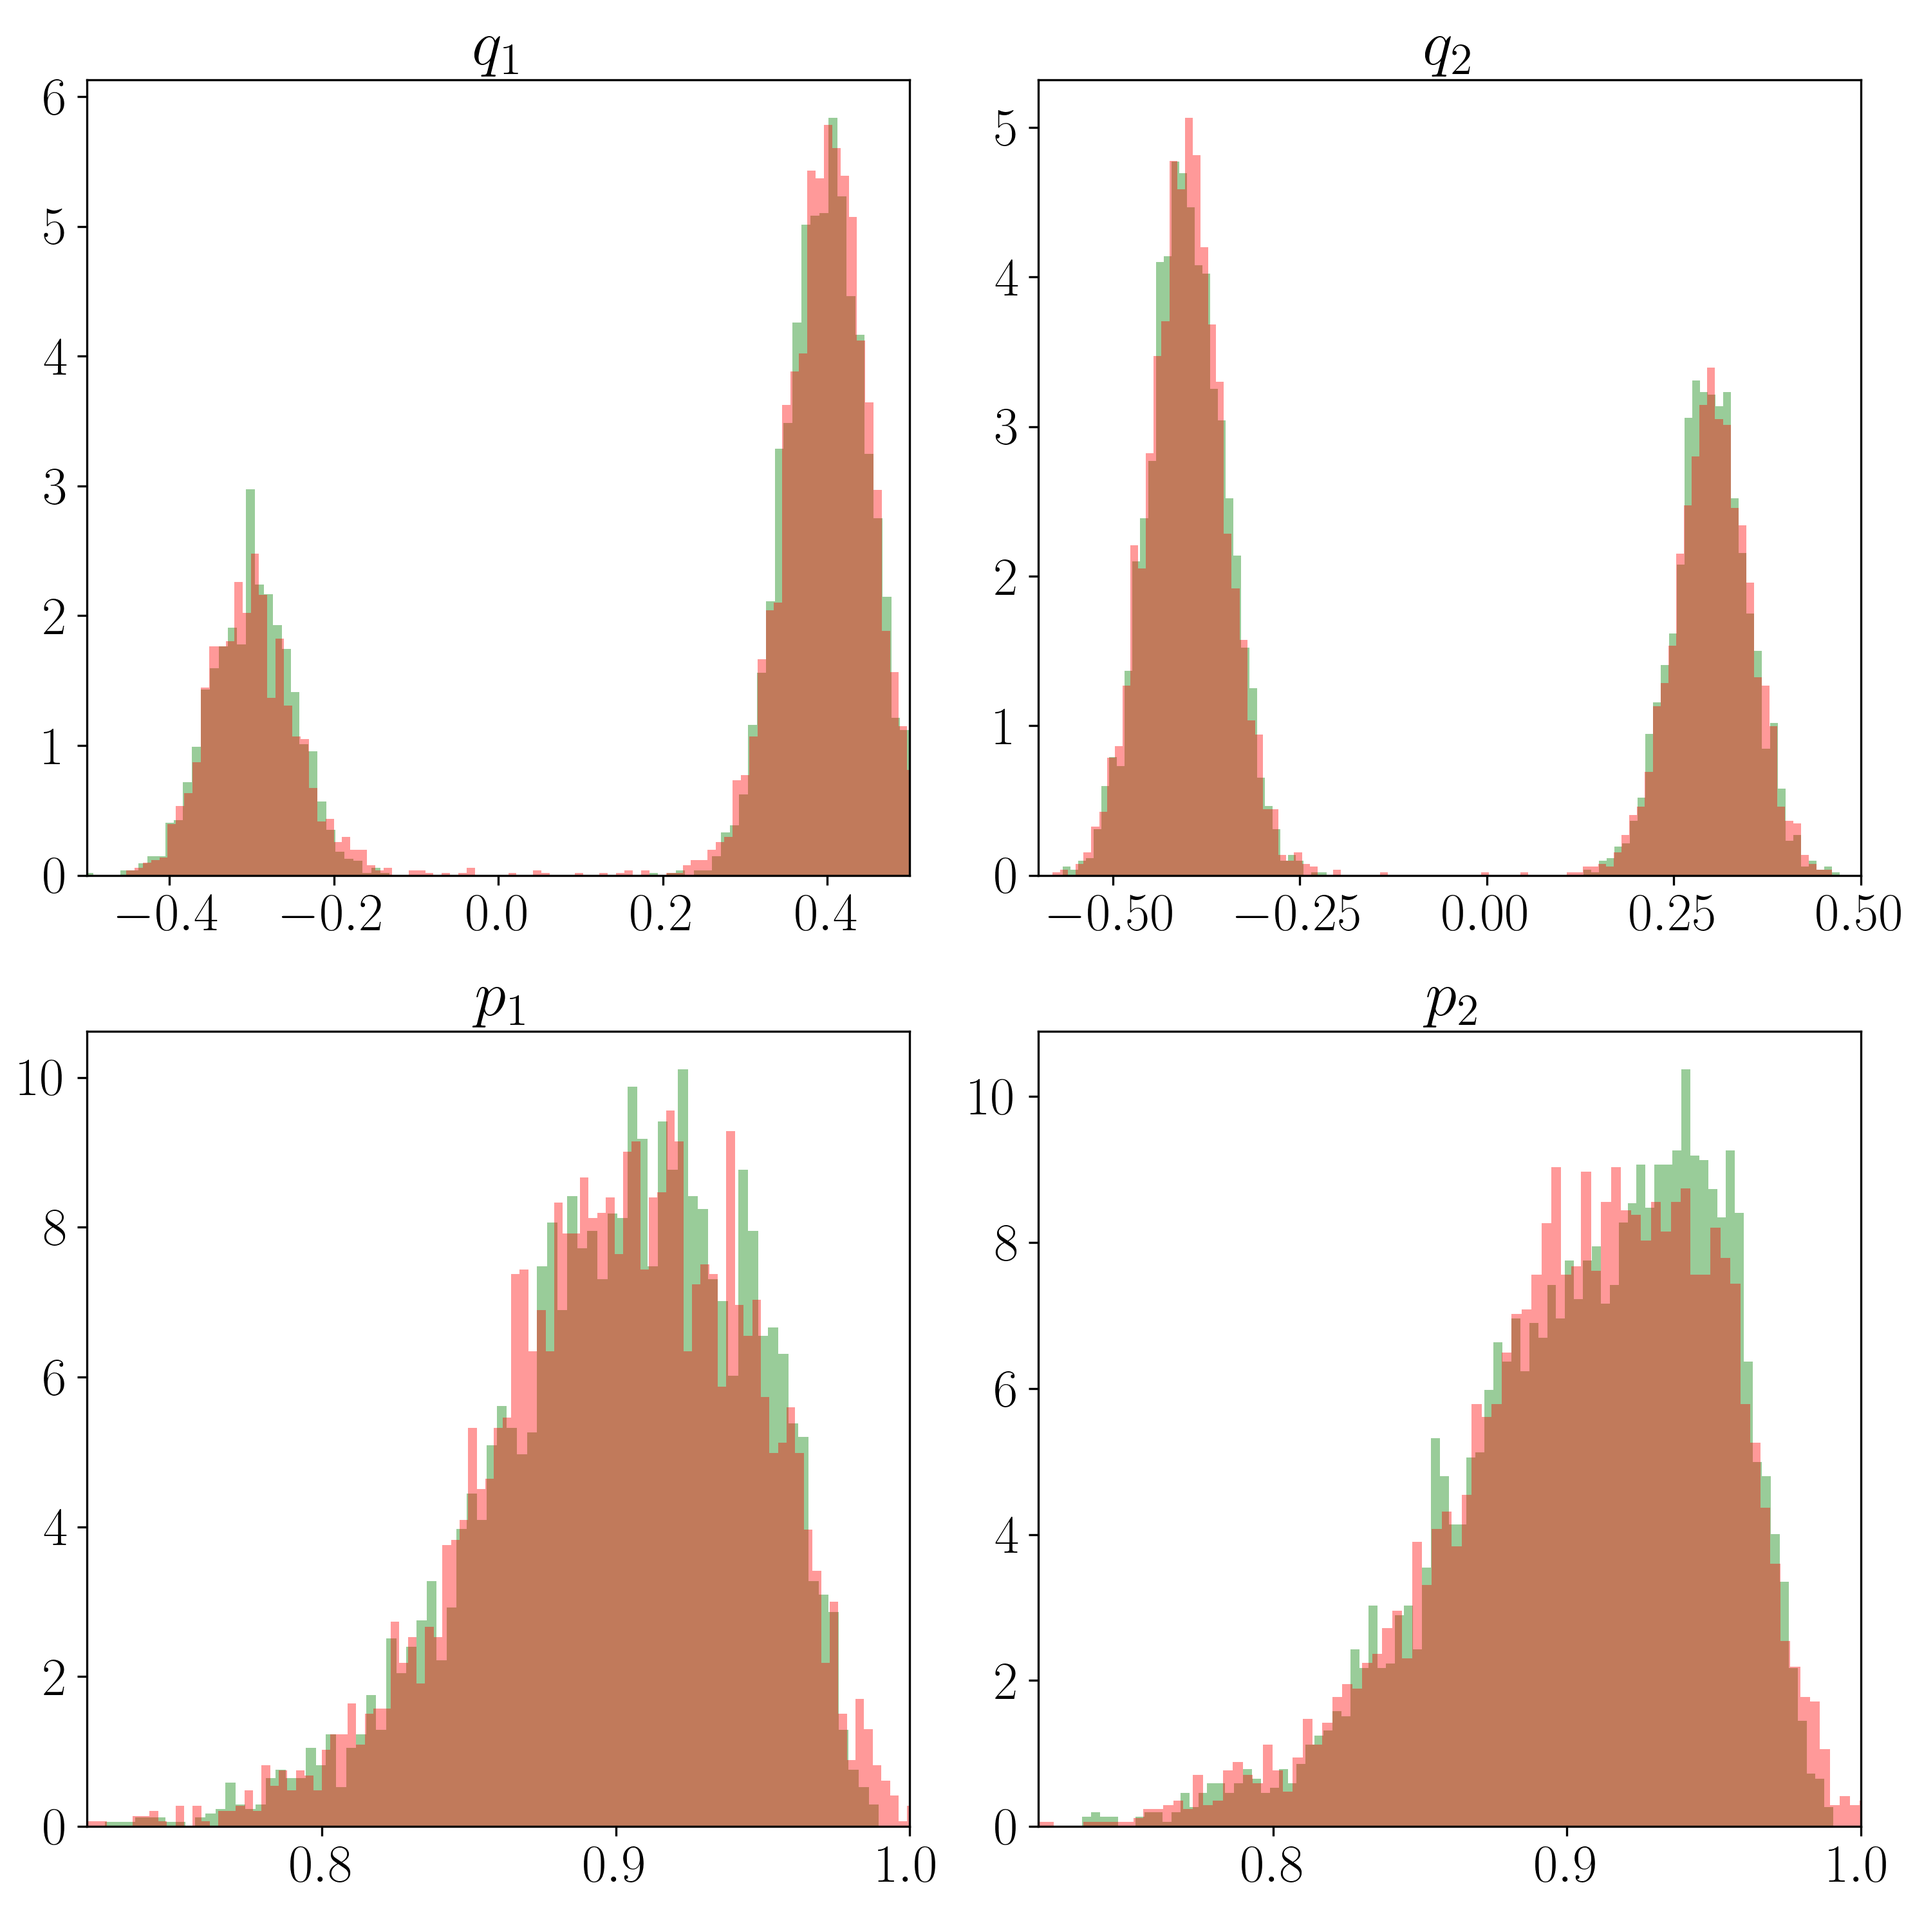
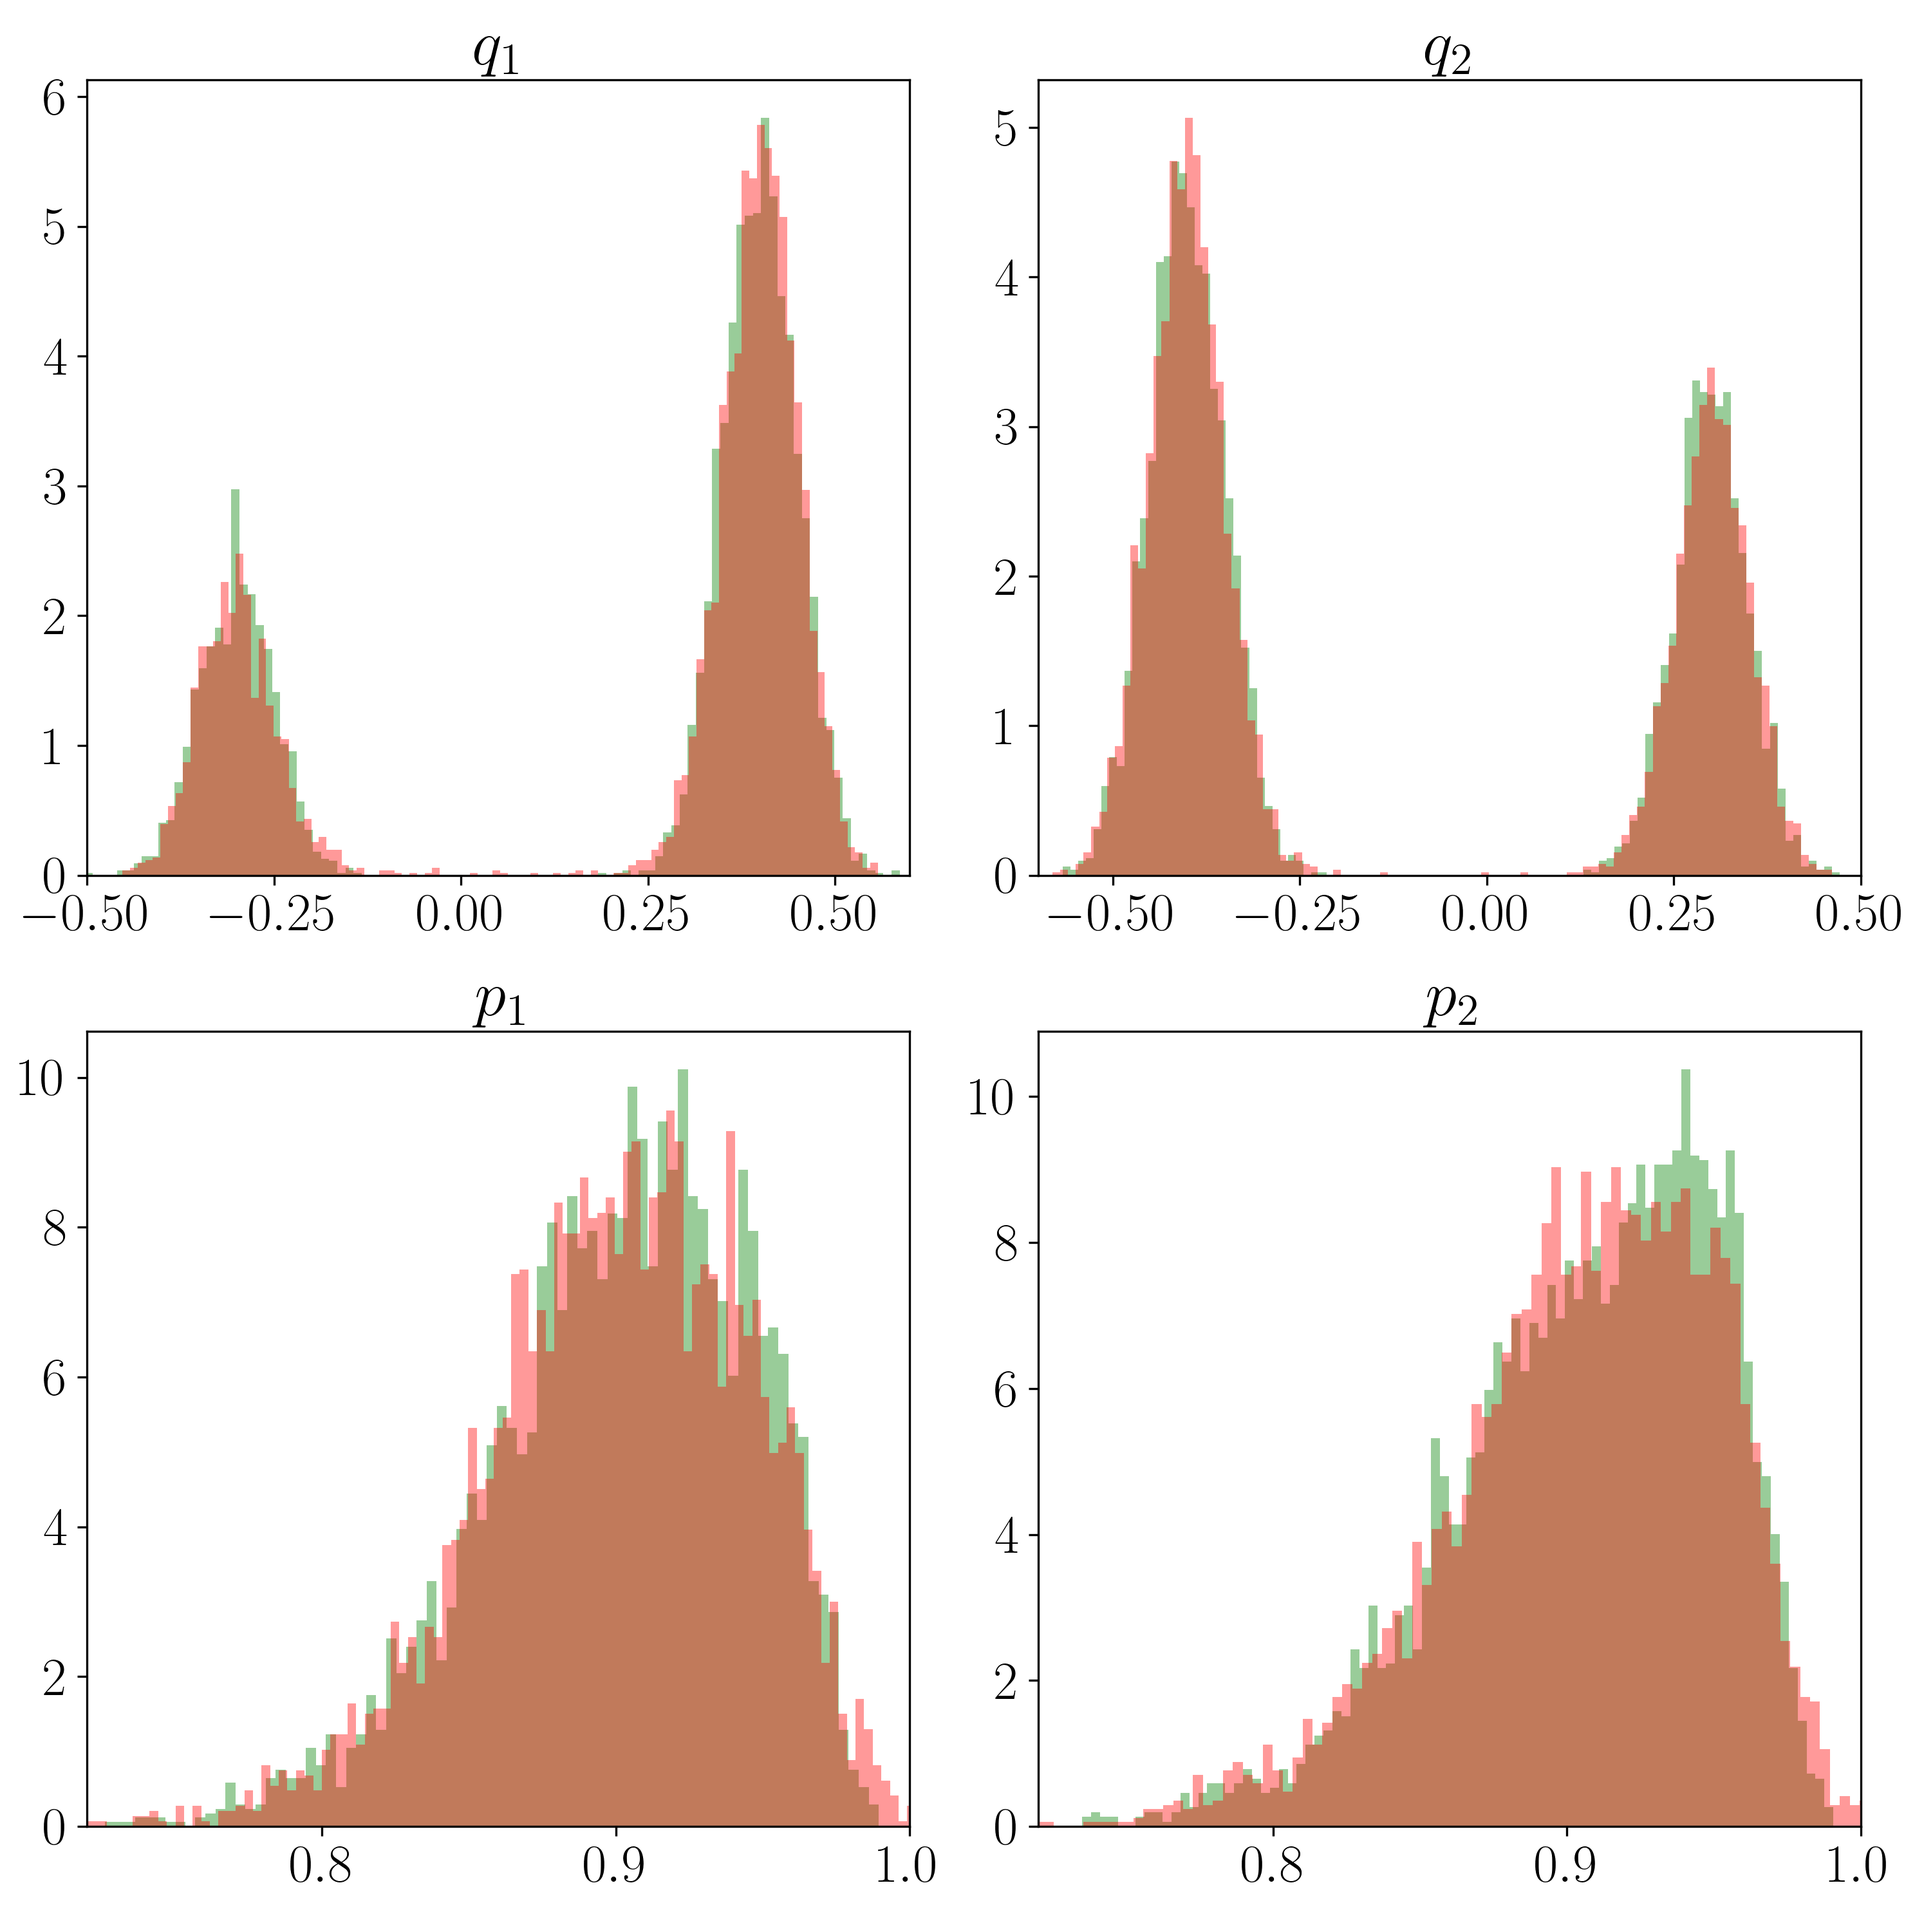
none

Changed region(s): [[0.3111, 0.062, 0.4978, 0.4956], [0.0311, 0.2478, 0.2178, 0.4956], [0.2178, 0.4646, 0.28, 0.4956]]

diff --git a/README.md b/README.md
@@ -1,11 +1,28 @@
-# Results
+# Results of Further experiments.
 
 
-## Distribution of the statistics $(q_1, q_2,p_1,p_2)$. Red: the distribution generated by our method; Green: the target distribution.
+## SO(10) under nonlinear transformation
 
-<!-- ![Hamilton](Hamilton.png) -->
+<!-- ![SO10 with nonlinear transformation](SOnTrans.png) -->
 
-## Distribution of the statistics $(S,S^2,S^4,S^5)$. Red: the distribution generated by our method; Green: the target distribution.
+<p align="center">
+<img src="SOnTrans.png" style="width: 50%; height: auto;">
+</p>
 
-![SO10 with nonlinear transformation](SOnTrans.png)
+**Figure 1.** Histograms of the statistics $tr(S),tr(S^2),tr(S^4)$ and $tr(S^5)$: Red represents the samples generated by our method; Green represents the target distribution.
 
+We run the experiment five times. The Sliced 1-Wasserstein distance between the generated data and the target distribution is 0.002354(0.000199), respectively (mean $\pm$ standard deviation).
+
+
+## Conserved Hamiltonian surface in phase space
+
+
+
+<p align="center">
+<img src="Hamilton.png" style="width: 50%; height: auto;">
+</p>
+
+
+**Figure 2.** Histograms of $q_1$, $q_2$, $p_1$, and $p_2$: Red represents the samples generated by our method; Green represents the target distribution.
+
+We run the experiment five times. The 1- and 2-Wasserstein distances between the generated data and the target distribution are 0.3113 $\pm$ 0.0024 and 0.3897 $\pm$ 0.0032, respectively (mean $\pm$ standard deviation).
